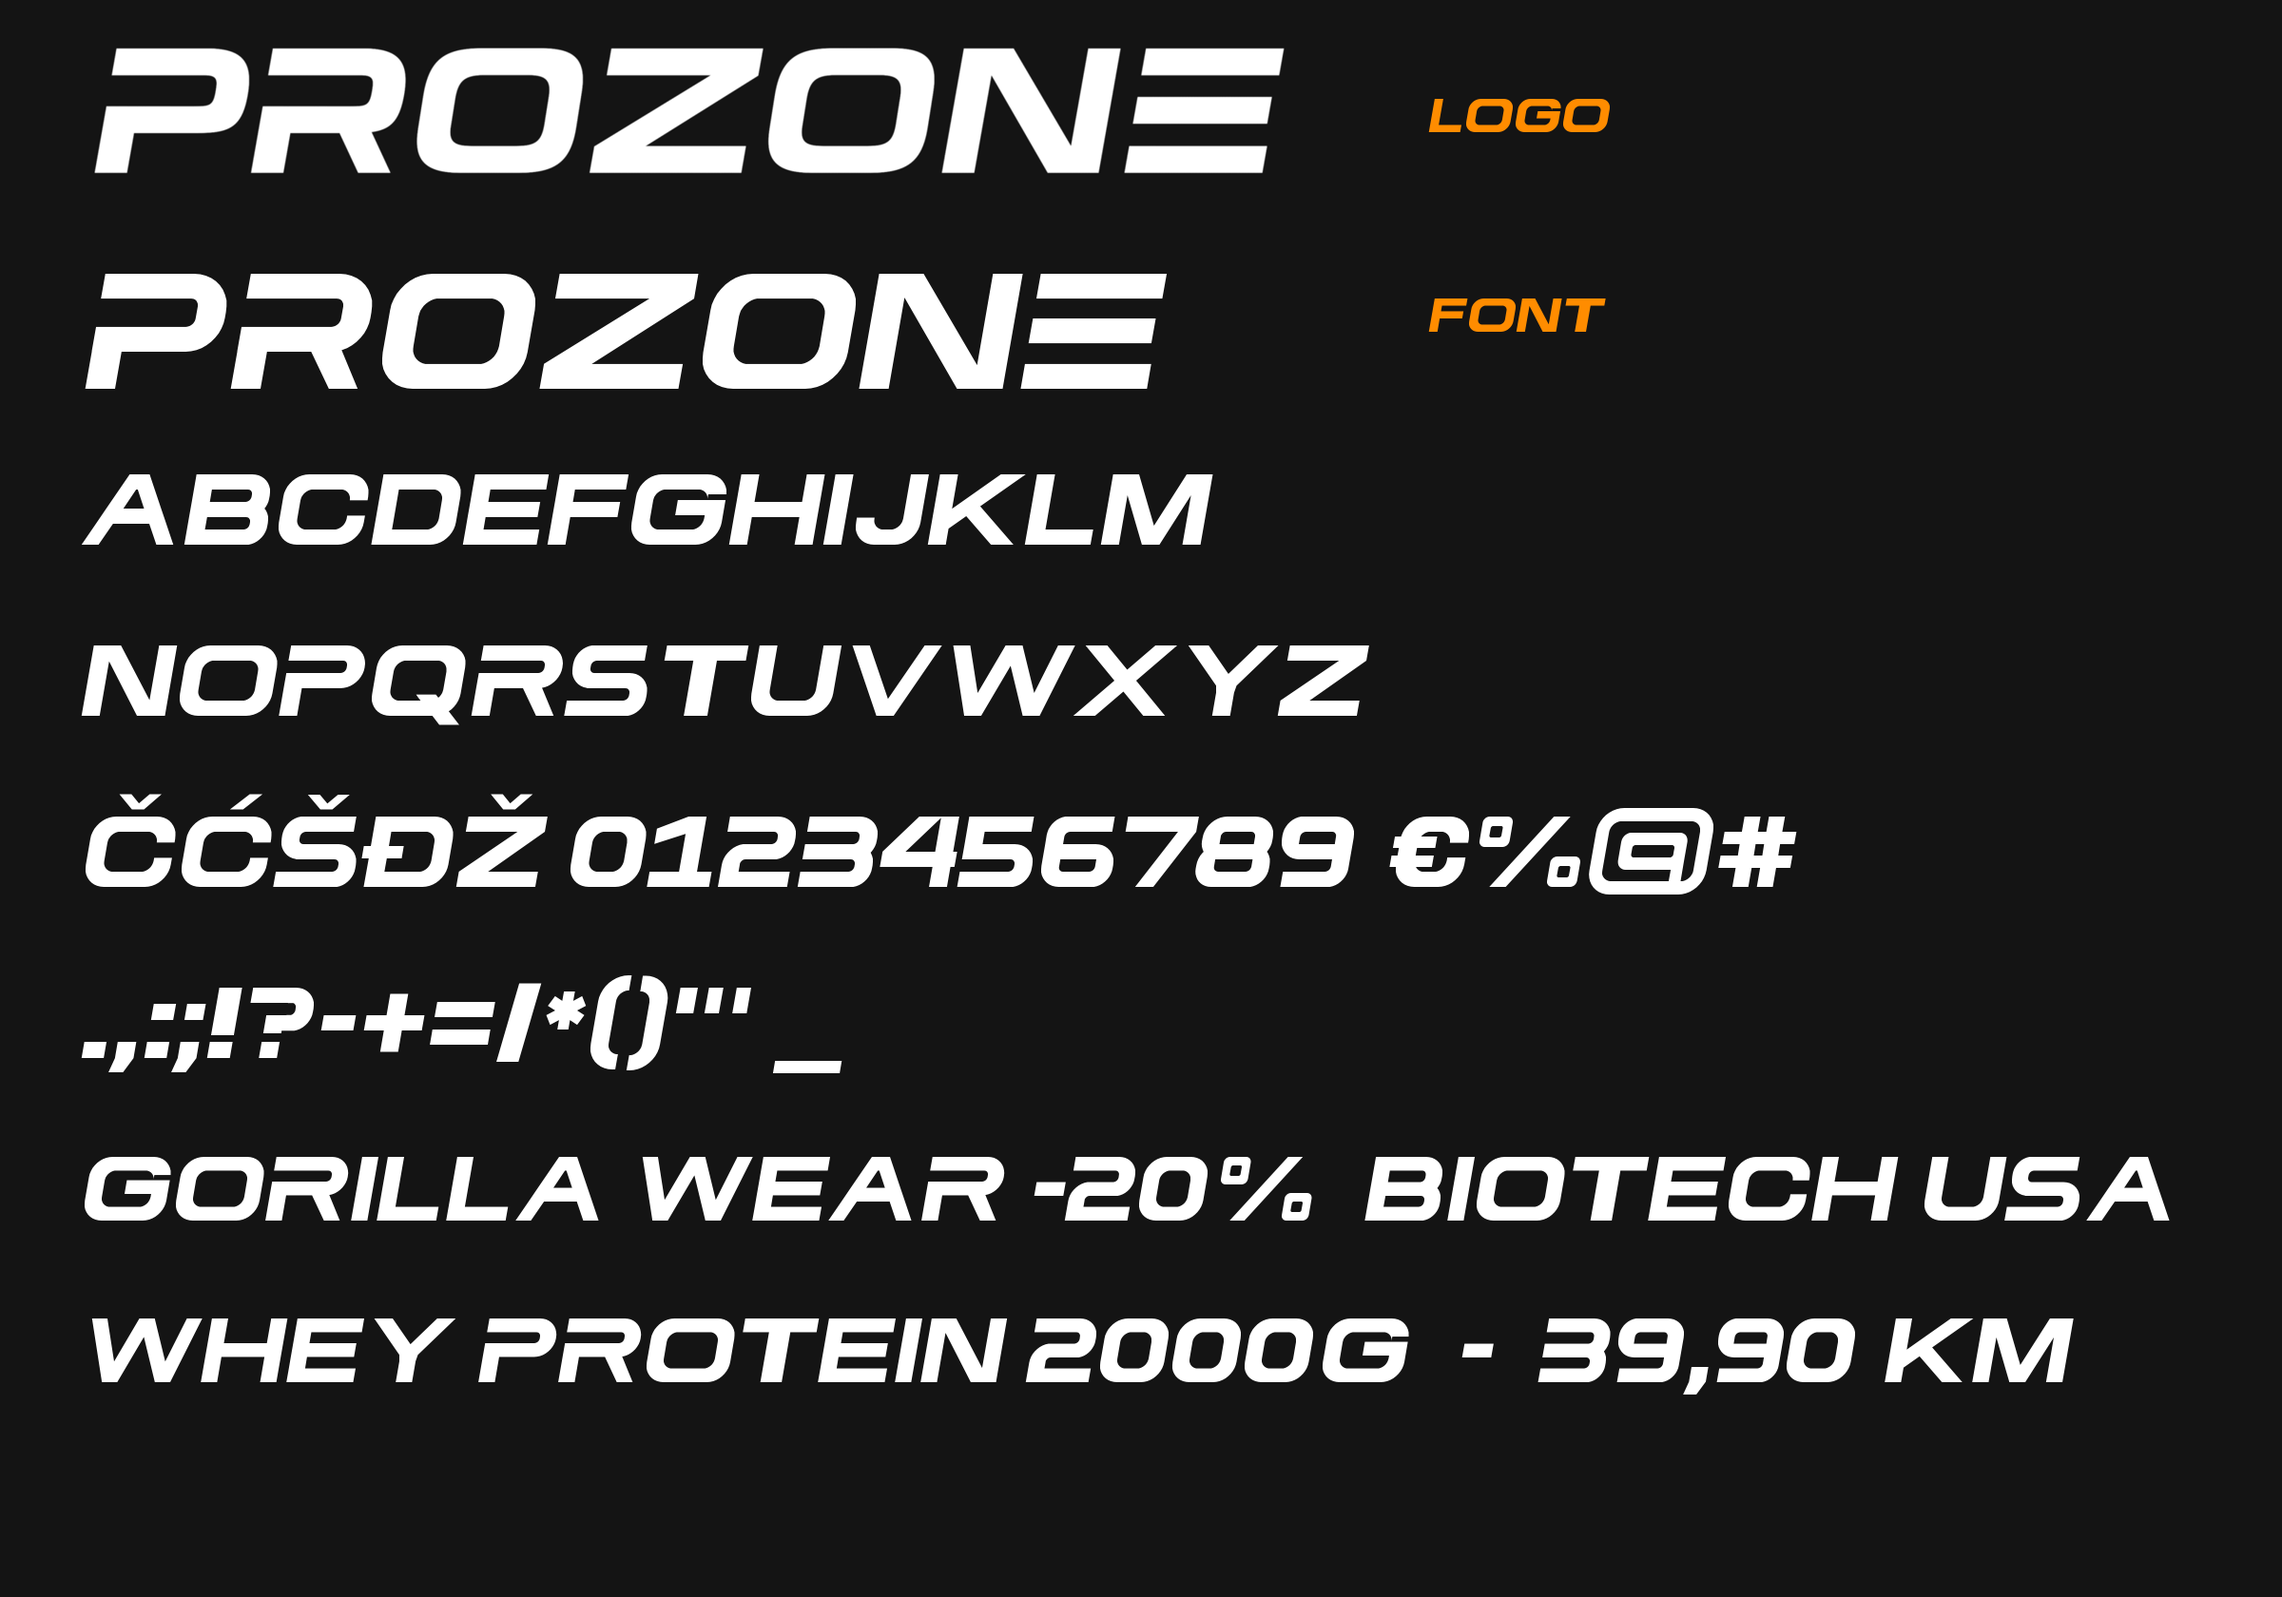
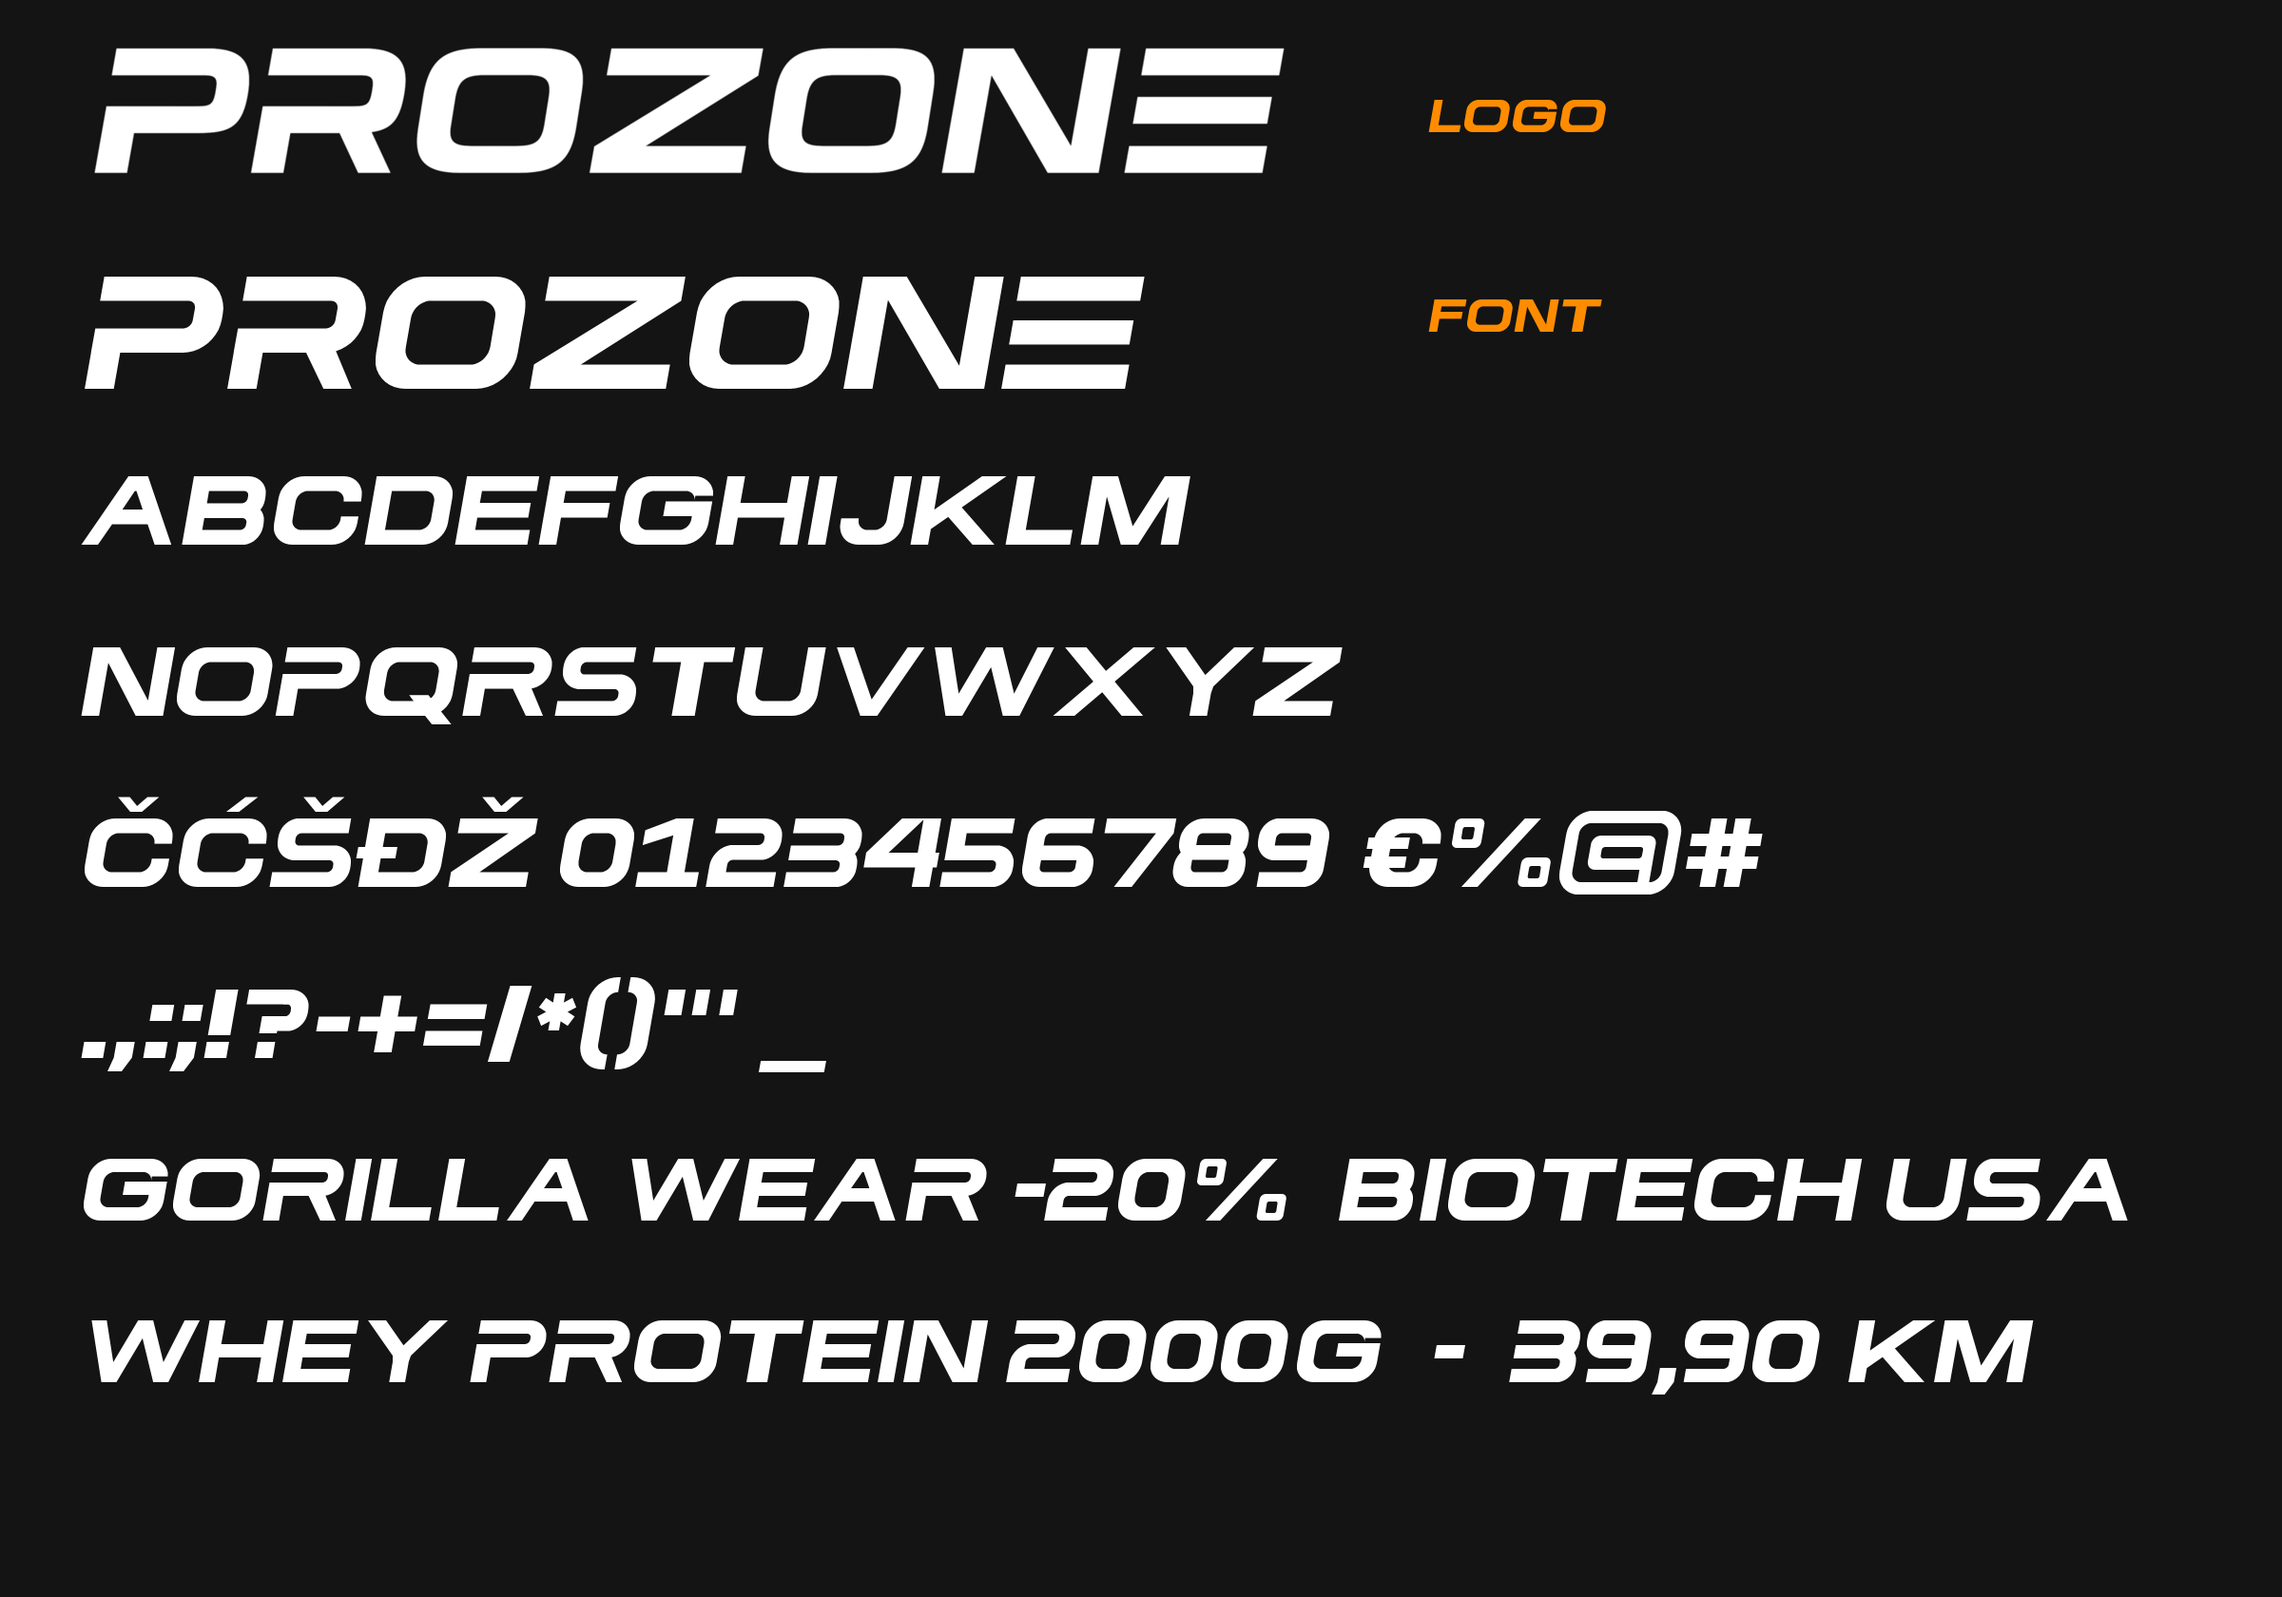
Font: whole font scaled down 2% (cap height 686, as Archivo)
Claude-Session: https://claude.ai/code/session_01VgbUEcHceGpcGcRoLDMoQW

diff --git a/font/build_prozone_font.py b/font/build_prozone_font.py
@@ -28,6 +28,7 @@ RO = 220           # vanjsko zaobljenje (izmjereno na O iz loga)
 RI = 110           # unutrasnje zaobljenje (izmjereno na O iz loga)
 SLANT = 0.175      # nagib izmjeren iz loga (tan ~9.9 stepeni)
 SB = 55            # razmak lijevo/desno od slova
+SCALE = 0.98       # cijeli font smanjen 2% (visina velikih slova 686 kao Archivo). Odabrao vlasnik 22.11.2026.
 MID = CAP / 2
 DIAG = 170         # horizontalna debljina kosih linija (mjerilo: slovo A)
 UPM = 1000
@@ -843,7 +844,7 @@ def add_kerning(font, cmap):
             lines.append(f"@k_{k} = [{' '.join(ns)}];")
     lines.append('feature kern {')
     for a, b, v in KERN_PAIRS:
-        lines.append(f'    pos @k_{a} @k_{b} {v};')
+        lines.append(f'    pos @k_{a} @k_{b} {round(v * SCALE)};')
     lines.append('} kern;')
     addOpenTypeFeaturesFromString(font, '\n'.join(lines))
 
@@ -867,6 +868,8 @@ def build(out_dir, family, logo_e):
         elif ch != ' ':
             geom = affinity.translate(geom.buffer(0), SB, 0)
             geom = affinity.skew(geom, xs=math.degrees(math.atan(SLANT)), origin=(0, 0))
+        geom = affinity.scale(geom, SCALE, SCALE, origin=(0, 0))
+        adv = int(round(adv * SCALE))
         name = 'space' if ch == ' ' else f'uni{ord(ch):04X}'
         order.append(name)
         glyphs[name] = to_glyph(geom)
@@ -889,7 +892,7 @@ def build(out_dir, family, logo_e):
                        'version': 'Version 1.000', 'copyright': '(c) 2026 PROZONE (prozone.ba)',
                        'licenseDescription': 'Vlasnistvo PROZONE. Slobodno za koristenje unutar PROZONE brenda.'})
     fb.setupOS2(sTypoAscender=980, sTypoDescender=-220, sTypoLineGap=0, usWinAscent=1000, usWinDescent=240,
-                sCapHeight=CAP, sxHeight=CAP, fsType=0, achVendID='PRZN')
+                sCapHeight=round(CAP * SCALE), sxHeight=round(CAP * SCALE), fsType=0, achVendID='PRZN')
     fb.setupPost(italicAngle=-round(math.degrees(math.atan(SLANT)), 1))
     add_kerning(fb.font, cmap)
     fb.setupDummyDSIG = None
